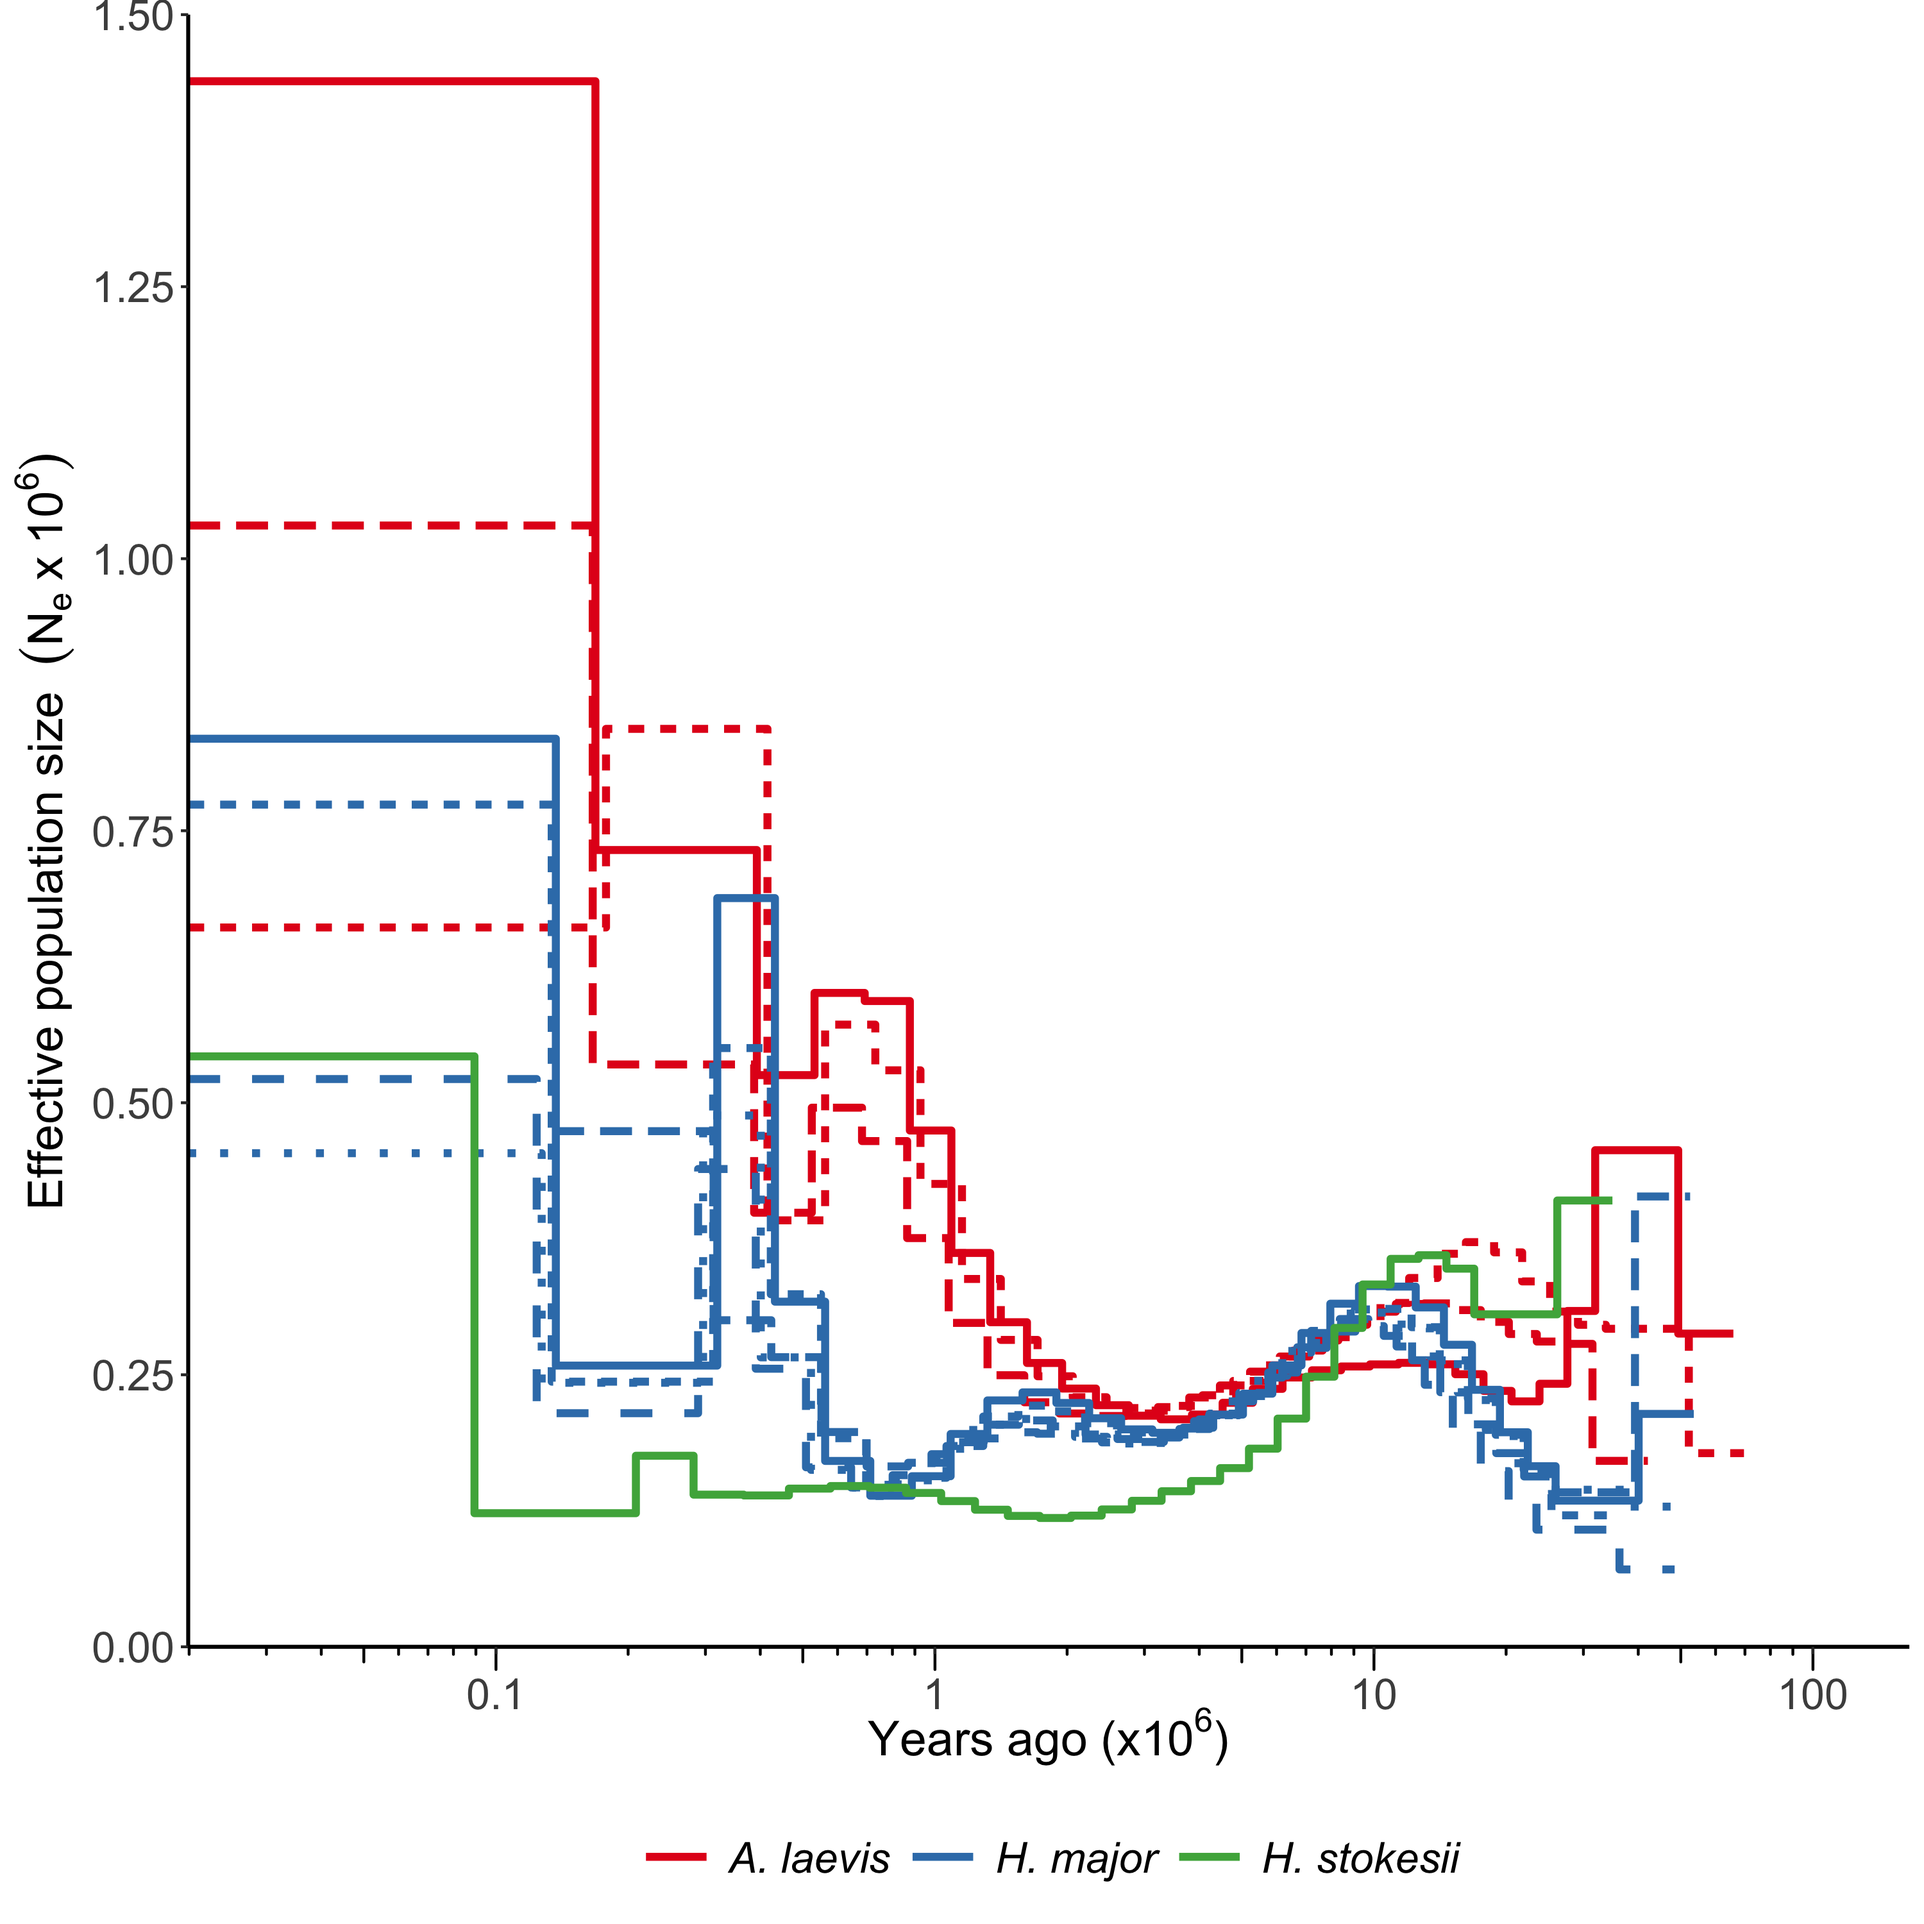
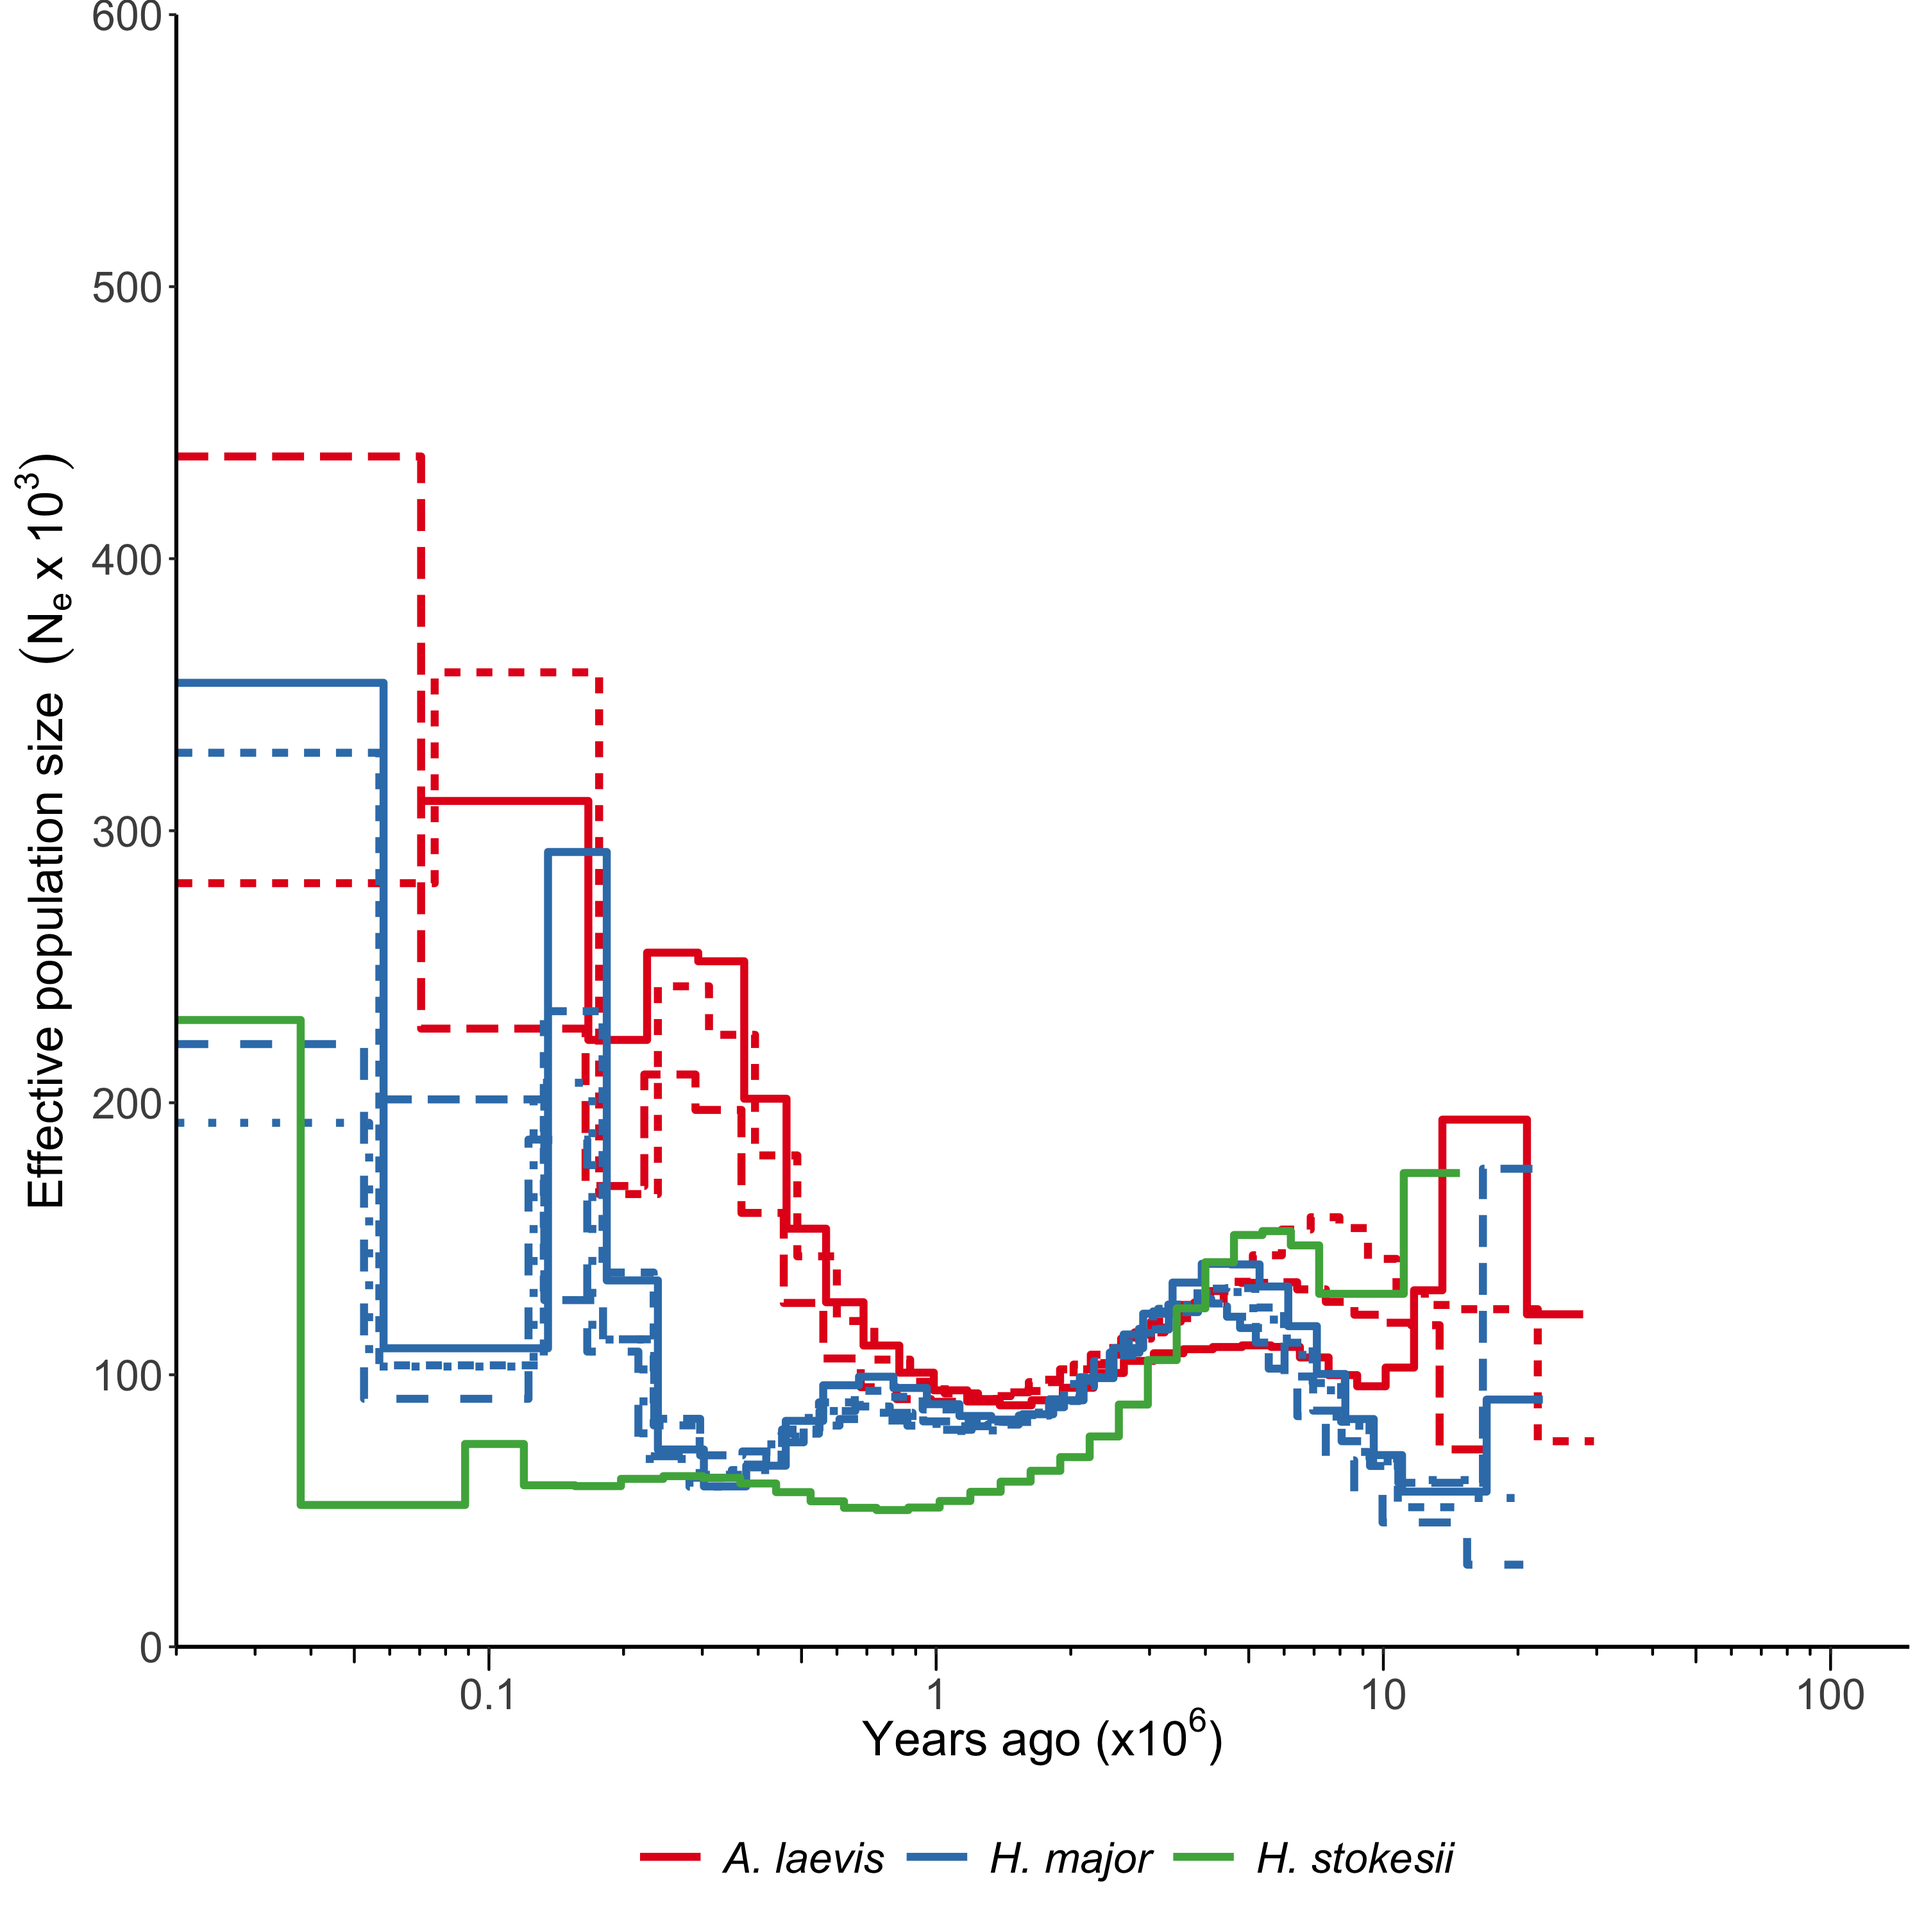
Update mu

diff --git a/results/demography/README.md b/results/demography/README.md
@@ -1,7 +1,7 @@
 Effective population size
 ================
 Alastair Ludington
-2025-02-28
+2025-04-14
 
 - [Introduction](#introduction)
 - [Data processing](#data-processing)
@@ -40,7 +40,8 @@ years.
 ``` r
 # ---------------------------------------------------------------------------- #
 # Scaling parameters
-mu <- 2e-9
+# mu <- 2e-9
+mu <- 4.71e-9 # https://academic.oup.com/mbe/article/37/6/1744/5741420#204169216
 gen <- 10
 
 # ---------------------------------------------------------------------------- #
@@ -96,7 +97,7 @@ df_msmc |>
 # MSMC2 stairway plot
 plot_stairway <- df_msmc |>
     # Removal of an obviously aberrant signal in distant past
-    filter(Ne <= 3e6, clock == "2*2+25*1+2*3", Ne <= 1.5e6) |>
+    filter(clock == "2*2+25*1+2*3") |>
     ggplot(
         aes(
             x = Years, y = Ne,
@@ -106,19 +107,19 @@ plot_stairway <- df_msmc |>
     ) +
     geom_step(linewidth = 1.4) +
     scale_x_log10(
-        limits = c(3e4, 110e6),
+        limits = c(3e4, 100e6),
         labels = scales::label_number(scale = 1e-6, drop0trailing = TRUE)
     ) +
     annotation_logticks(sides = 'b', outside = TRUE, ) +
     coord_cartesian(clip = "off" ) +
     scale_y_continuous(
-        limits = c(0, 1.5e6),
-        breaks = seq(0, 1.5e6, 2.5e5),
-        labels = scales::label_number(scale = 1e-6),
+        limits = c(0, 600e3),
+        breaks = seq(0, 600e3, 1e5),
+        labels = scales::label_number(scale = 1e-3),
         expand = c(0, 0)
     ) +
     labs(
-        y = bquote("Effective population size "~(N[e]~x~10^6)),
+        y = bquote("Effective population size "~(N[e]~x~10^3)),
         x = bquote("Years ago (x10"^6*')')
     ) +
     scale_color_brewer(palette = "Set1") +
@@ -139,12 +140,6 @@ plot_stairway <- df_msmc |>
         panel.background = element_blank(),
         axis.line = element_line(colour = "black", linewidth = 0.7)
     )
-plot_stairway
-```
-
-<img src="demography_files/figure-gfm/msmc-data-1.png" width="100%" />
-
-``` r
 ragg::agg_png(
     filename = here("results", "demography", "msmc.png"),
     width = 1200, height = 1200,
@@ -157,4 +152,4 @@ invisible(dev.off())
 plot_stairway
 ```
 
-<img src="demography_files/figure-gfm/msmc-data-2.png" width="100%" />
+<img src="demography_files/figure-gfm/msmc-data-1.png" width="100%" />
